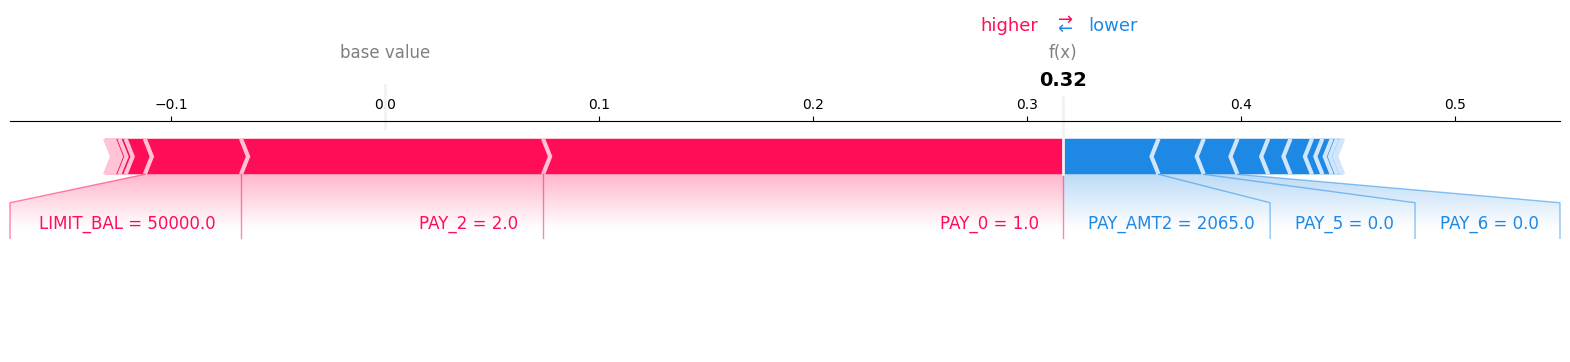
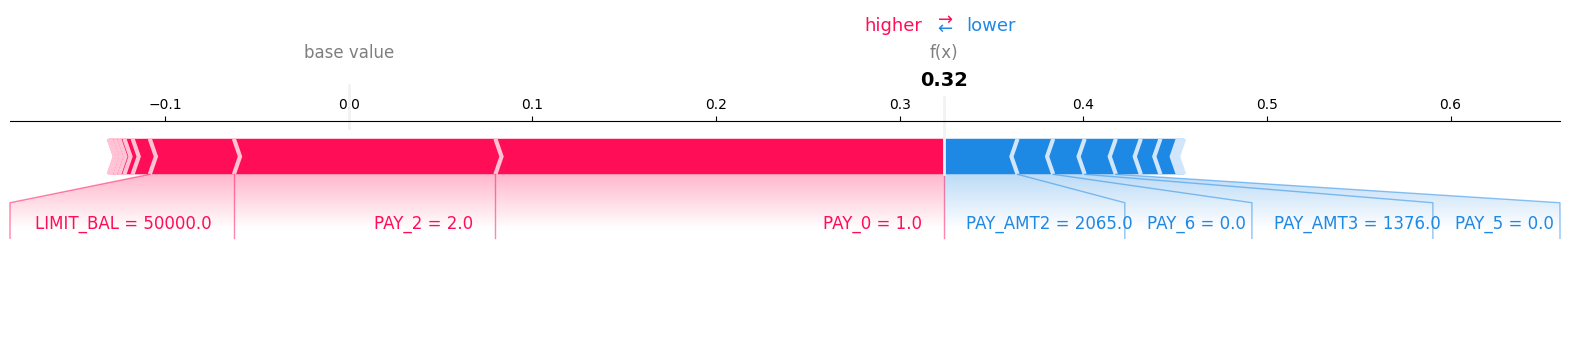
fix: 將 max_depth 由 5 調降至 6

diff --git a/XGboost.py b/XGboost.py
@@ -53,7 +53,7 @@ model = xgb.XGBClassifier(
     tree_method='hist',
     device='cuda',
     n_estimators=5,
-    max_depth=5,
+    max_depth=6,
     learning_rate=0.1,
     random_state=42,
     scale_pos_weight=ratio,
